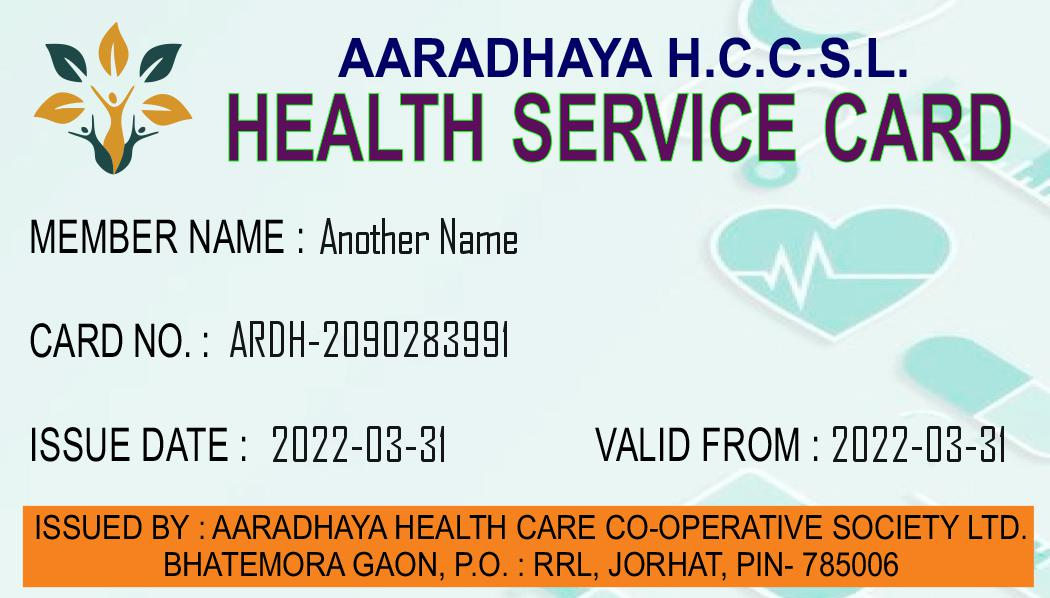
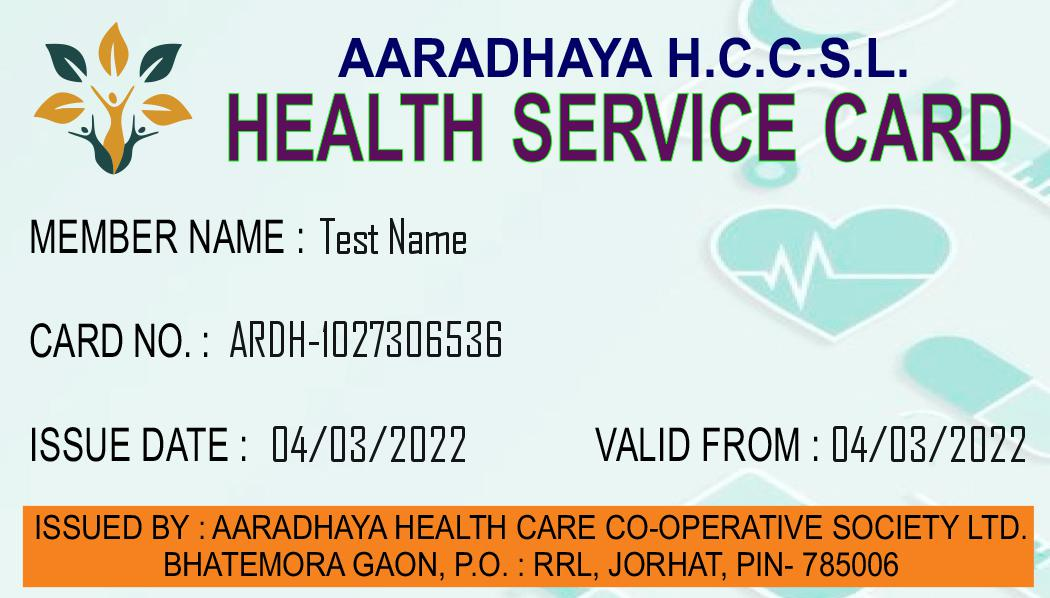
Issue Date added

diff --git a/view-customers.php b/view-customers.php
@@ -17,12 +17,13 @@
                 <th>Id</th>
                 <th>Name</th>
                 <th>Phone</th>
+                <th>Issue Date</th>
                 <th>Actions</th>
             </thead>
             <tbody>
             <?php
                       include "connect.php";
-                      $sql="select * from customer;";
+                      $sql="select * from customer ORDER BY issuedate DESC;";
                       $result=mysqli_query($con,$sql);
                       while($row=mysqli_fetch_array($result))
                           {
@@ -30,7 +31,8 @@
                                 <td style="width:20%; text-align:center;"><?php echo $row[0] ?></td>
                                 <td style="width:20%; text-align:center;"><?php echo $row[1] ?></td>
                                 <td style="width:20%; text-align:center;"><?php echo $row[3] ?></td>
-                                <td style="width:20%; text-align:center;"> <button class="green" onclick="location.href='details.php?id=<?php echo $row[0] ?>'">Details</button> </td>
+                                <td style="width:20%; text-align:center;"><?php echo $row[11] ?></td>
+                                <td style="width:10%; text-align:center;"> <button class="green" onclick="location.href='details.php?id=<?php echo $row[0] ?>'">Details</button> </td>
                                 
                         </tr>
                         <?php

diff --git a/card.php b/card.php
@@ -9,15 +9,8 @@
  $row=mysqli_fetch_array($result);
   $id=$row["id"];
  $name=$row["name"];
- $careof=$row["careof"];
-  $phone=$row["phone"];
- $village=$row["village"];
- $po=$row["po"];
- $pin=$row["pin"];
- $dist=$row["dist"];
-  $state=$row["state"];
-  $nominee=$row["nominee"];
-  $dob=$row["dob"];
+ $issuedate=new DateTime($row["issuedate"]);
+$issuedate->format('d/m/Y');
 
 
 	header("Content-type: image/jpeg");
@@ -27,8 +20,8 @@
  
   imagettftext($image,35,0,320,254,$color,$font,$name);
   imagettftext($image,35,0,230,357,$color,$font,$id);
-  imagettftext($image,35,0,270,462,$color,$font,$dob);
-  imagettftext($image,35,0,830,462,$color,$font,$dob);
+  imagettftext($image,35,0,270,462,$color,$font,$issuedate->format('d/m/Y'));
+  imagettftext($image,35,0,830,462,$color,$font,$issuedate->format('d/m/Y'));
 
   $dir="card-photo/card.jpeg";
   imagejpeg($image, $dir);

diff --git a/reg.php b/reg.php
@@ -84,7 +84,7 @@ $allowed = array('jpg', 'jpeg', 'png');
 							
 
 
-				$query="INSERT INTO `customer` (`id`, `name`, `careof`, `phone`, `village`, `po`, `pin`, `dist`, `state`, `nominee`, `dob`, `image1`, `image2`, `image3`) VALUES ('$id', '$name', '$co', '$phone', '$vill', '$po', '$pin', '$dist', '$state', '$nominee', '$dob', '$photo1','$photo2','$photo3') ";
+				$query="INSERT INTO `customer` (`id`, `name`, `careof`, `phone`, `village`, `po`, `pin`, `dist`, `state`, `nominee`, `dob`,`issuedate`, `image1`, `image2`, `image3`) VALUES ('$id', '$name', '$co', '$phone', '$vill', '$po', '$pin', '$dist', '$state', '$nominee', '$dob',CURRENT_TIMESTAMP, '$photo1','$photo2','$photo3') ";
 
 				if (mysqli_query($con, $query)) {
 				

diff --git a/details.php b/details.php
@@ -30,6 +30,7 @@
     $state=$row["state"];
     $nominee=$row["nominee"];
     $dob=$row["dob"];
+    $issuedate=new DateTime($row["issuedate"]);
     $image1=$row["image1"];
     $image2=$row["image2"];
     $image3=$row["image3"];
@@ -40,7 +41,10 @@
      <h2><span>ID : </span><?php echo $id ?></h2>
      
      <br>
+     <div class="row">
      <p><span>Phone : </span><?php echo $phone ?></p>
+     <p><span>Issue date : </span><?php echo $issuedate->format('d/m/Y') ?></p>
+     </div>
      <div class="row">
      <p><span>Care of :</span> <?php echo $careof ?></p>
      <p><span>Village : </span><?php echo $village ?></p>
